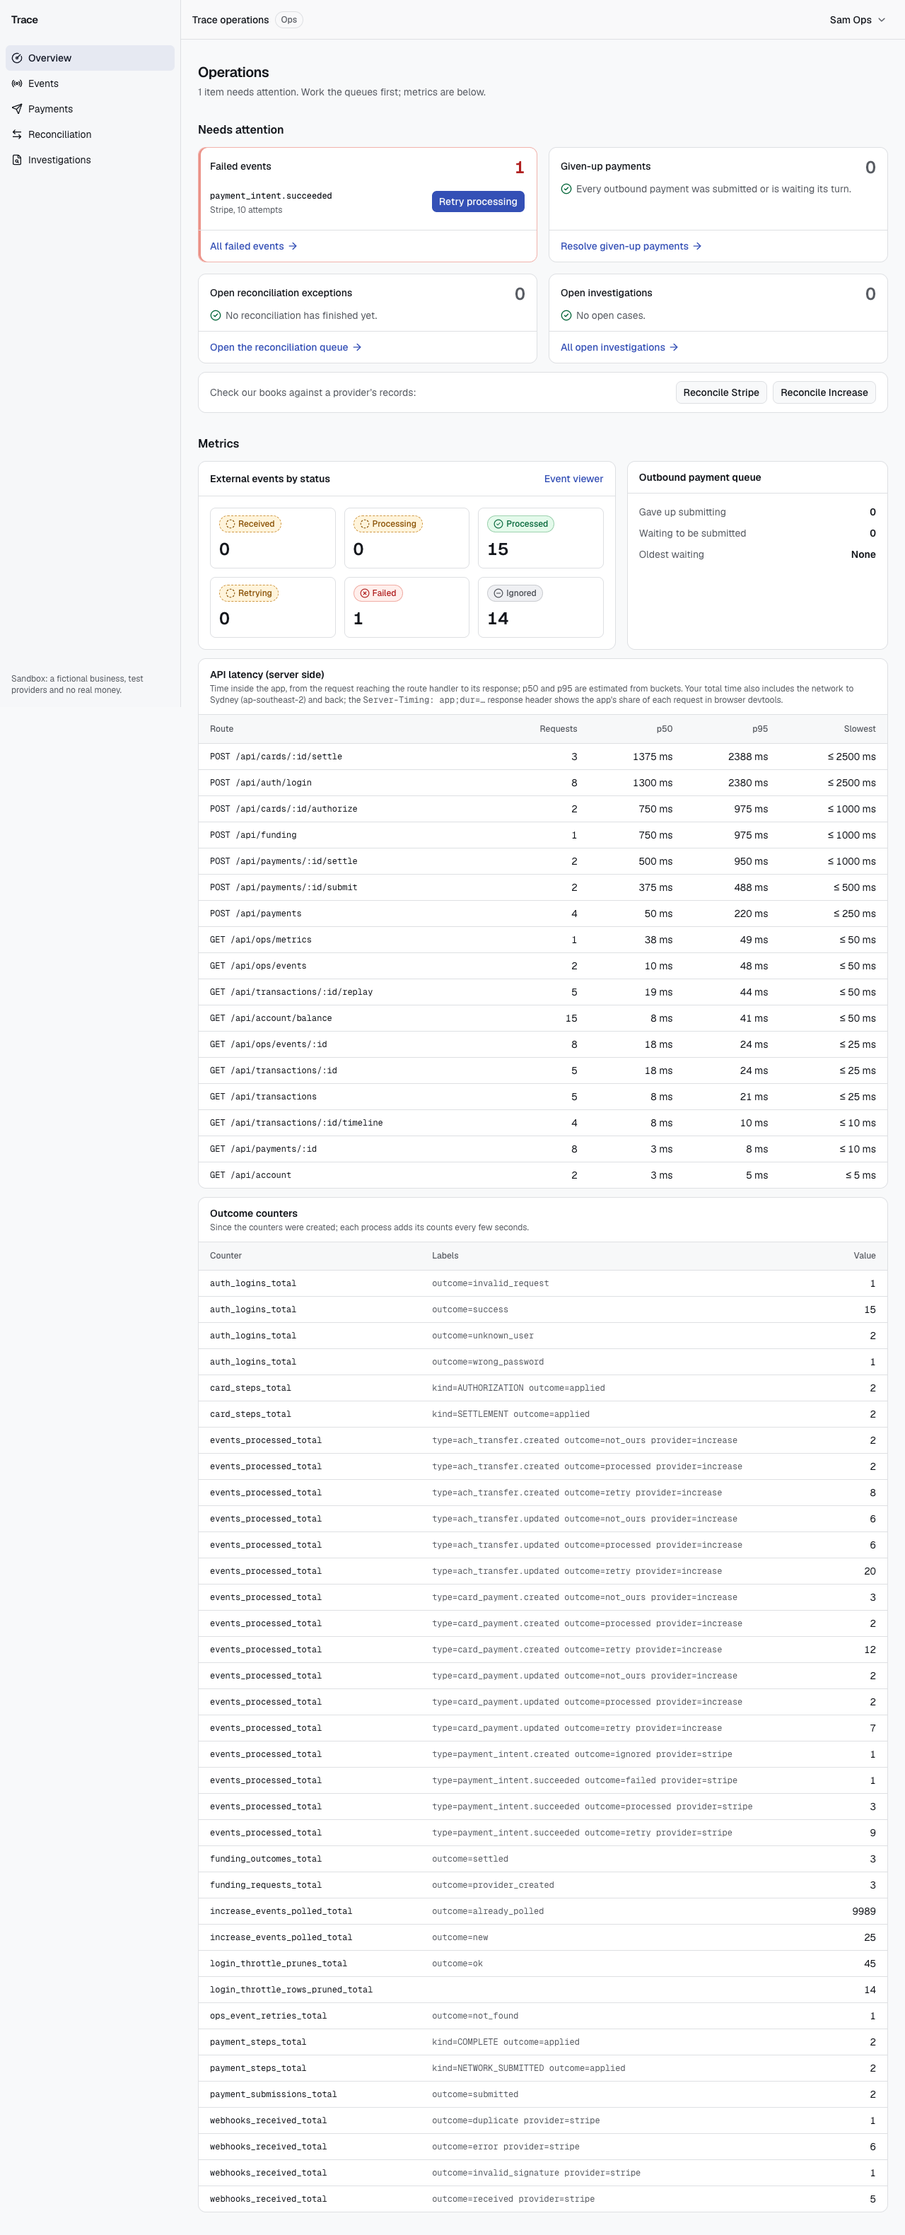
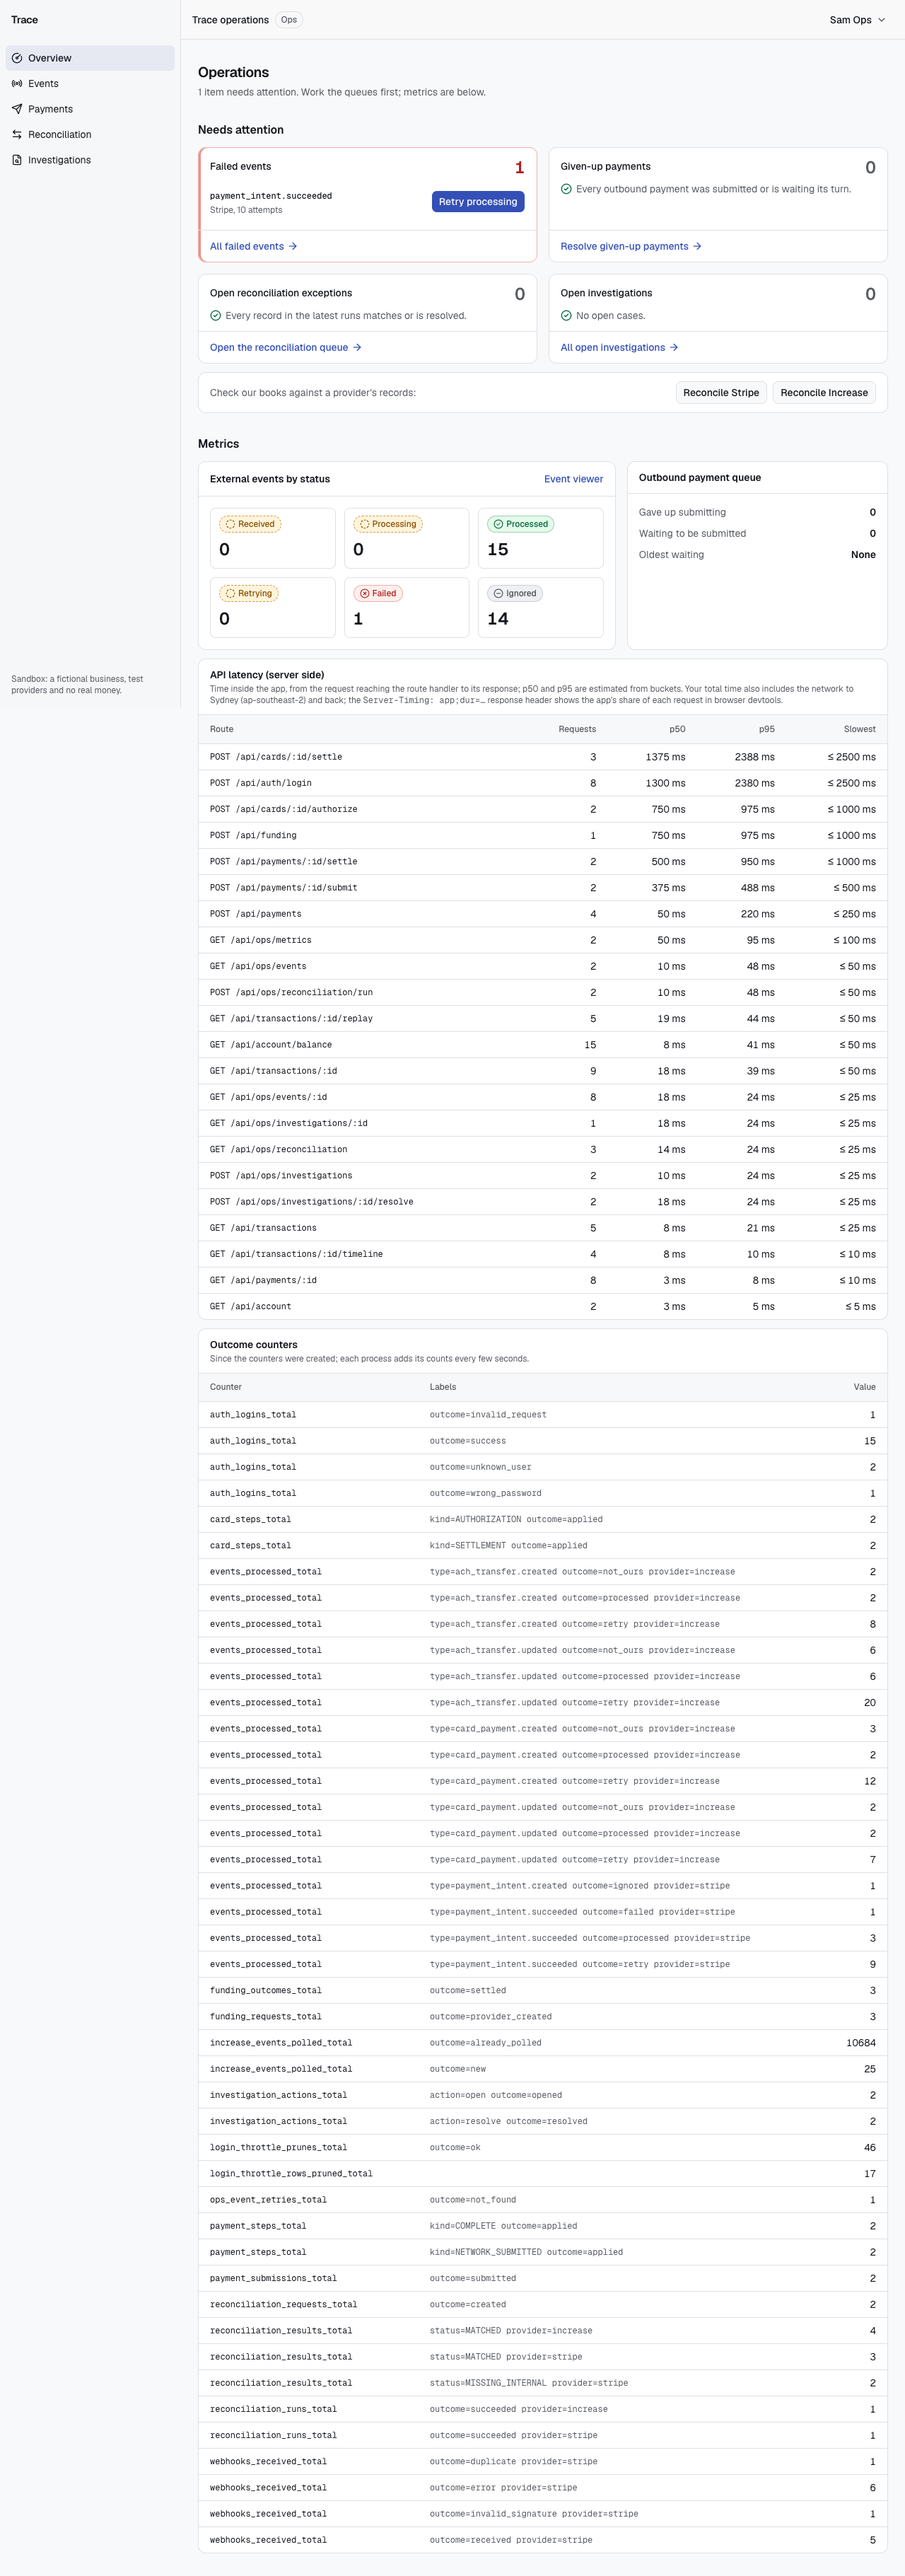
Add reconciliation, counter causes and a same-moment dashboard to the sandbox evidence

diff --git a/docs/sandbox-evidence.md b/docs/sandbox-evidence.md
@@ -54,8 +54,8 @@ the settlement was never taken.
 | Payment created: HOLD_CREATED $100.00 | PENDING | | | 15:35:02.235 |
 | Worker submits with `Idempotency-Key: payment-b9c0b8c6-…` | SUBMITTED | `sandbox_ach_transfer_4wwhv17dt4xgfxqqhkdh` | created 15:35:02, `idempotency_key` = `payment-b9c0b8c6-8ea1-4f5b-b051-c79af7c6eebf` | 15:35:02.641 |
 | `ach_transfer.created` polled | (no change) | `sandbox_event_001m6vac7gzbyg86cnmz2vgyy10` | event created 15:35:02 | received 15:35:06.994 |
-| Simulated submission to FedACH: SUBMITTED_TO_NETWORK | SUBMITTED | `sandbox_event_001m6vacgt38ygpjwvqgkd76nb0` `ach_transfer.updated` | `submission.submitted_at` 15:35:11 | received 15:35:12.712, applied 15:35:14.106 |
-| Simulated settlement: LEDGER_POSTED −$100.00, HOLD_RELEASED, STATUS_CHANGED | COMPLETED | `sandbox_event_001m6vacya4whwbw4hjj0m426kv` `ach_transfer.updated` | `settlement.settled_at` 15:35:25 | received 15:35:28.756, applied 15:35:29.384 |
+| `POST /api/payments/:id/submit` simulates the FedACH submission: SUBMITTED_TO_NETWORK | SUBMITTED | `sandbox_event_001m6vacgt38ygpjwvqgkd76nb0` `ach_transfer.updated` | `submission.submitted_at` 15:35:11 | received 15:35:12.712, applied 15:35:14.106 |
+| `POST /api/payments/:id/settle` simulates settlement: LEDGER_POSTED −$100.00, HOLD_RELEASED, STATUS_CHANGED | COMPLETED | `sandbox_event_001m6vacya4whwbw4hjj0m426kv` `ach_transfer.updated` | `settlement.settled_at` 15:35:25 | received 15:35:28.756, applied 15:35:29.384 |
 | Second update for the same state | (no change) | `sandbox_event_001m6vacyaehqay06vskpmyv8wj` `ach_transfer.updated` | event created 15:35:26 | processed with no new step |
 
 Increase's top-level `status` stays `submitted` after settlement. Settlement is recorded in the
@@ -70,9 +70,9 @@ transfer's `settlement` object, and our COMPLETED status follows from that objec
 ## Replay
 
 `GET /api/transactions/:id/replay` returned `"consistent": true` for all three transactions.
-Replay rebuilds each step from the trace rows and checks the result against the recorded
-balances, the ledger entry and the hold state. The transaction pages show the same result as the
-badge "Replay matches recorded balances".
+Replay rebuilds the transaction from its trace rows and checks every step's ledger and available
+balances, and each posting against its ledger entry. The transaction pages show the same result as
+the badge "Replay matches recorded balances".
 
 | Funding | Card | ACH |
 |---|---|---|
@@ -80,8 +80,8 @@ badge "Replay matches recorded balances".
 
 ## Ops view
 
-Ops event viewer (`/ops/events`): the seven events above, each PROCESSED in one attempt with one
-delivery. Payloads are withheld.
+Ops event viewer (`/ops/events`): each of the seven events of these flows (the top seven rows) was
+PROCESSED in one attempt with one delivery. Payloads are withheld.
 
 ![Ops event viewer](evidence/ops-events.png)
 
@@ -90,23 +90,77 @@ delivery. Payloads are withheld.
   - Stripe's event reached us 1 s after it was created, and Stripe reports `pending_webhooks: 0`.
   - The Increase account has no event subscriptions (`GET /event_subscriptions` returns 0), and
     its events arrived 3 to 4 s after creation, in line with the 5 s poll.
-- **Idempotent dedupe.** Counters since the deploy:
-  - `increase_events_polled_total{outcome="already_polled"}` = 9,769 overlap re-reads, none of
-    which was recorded or applied again. `{outcome="new"}` = 25.
+All counter values below were read from the Ops dashboard at **15:54:33 UTC**, in the same page
+load as the screenshot. They count everything since the deploy, including earlier runs today.
+
+- **Idempotent dedupe:**
+  - `increase_events_polled_total{outcome="already_polled"}` = 10,684. These are overlap
+    re-reads, and none was recorded or applied again. `{outcome="new"}` = 25.
   - `webhooks_received_total{provider="stripe",outcome="duplicate"}` = 1. That duplicate is
     event `evt_trace_selftest_c6f0e8b7b9ed`: 2 deliveries, stored once, IGNORED.
-- **Counters for these flows** (`GET /api/ops/metrics`, including earlier runs today):
+- **Counters for these flows:**
   - `funding_outcomes_total{settled}` 3
   - `card_steps_total{AUTHORIZATION,applied}` 2 and `{SETTLEMENT,applied}` 2
   - `payment_submissions_total{submitted}` 2
   - `payment_steps_total{NETWORK_SUBMITTED,applied}` 2 and `{COMPLETE,applied}` 2
   - Events by status: PROCESSED 15, FAILED 1, IGNORED 14. Payment backlog: 0 pending, 0 given up.
+- **Other counters on the dashboard and their causes** (from the worker and web logs):
+  - `webhooks_received_total{stripe,error}` = 6. These were deliberate bad-signature smoke tests
+    at 07:34 and 07:40 UTC. Before commit `1f9f871`, the production build didn't recognise a
+    signature error (an `instanceof` check across bundles), so it answered 500 instead of 400.
+  - `webhooks_received_total{stripe,invalid_signature}` = 1. The same smoke test, re-run at 07:56
+    UTC after that fix, correctly got a 400.
+  - `events_processed_total{increase,…,retry}` = 47, across the four Increase event types. All
+    happened between 12:41:25 and 12:42:02 UTC, during the rolling deploy of the poller:
+    - The new worker task's poller ingested events while the old task was still claiming them.
+    - The old task's code predates `9ebeb4b` and rejected the anonymous sandbox's `sandbox_` id
+      prefix (`ZodError`), so those events were retried.
+    - The new task then processed them, or marked them not ours.
+  - `events_processed_total{stripe,payment_intent.succeeded,retry}` = 9 and `{failed}` = 1 are
+    the ten attempts of the FAILED event below.
 
 ![Ops dashboard](evidence/ops-dashboard.png)
 
-The one FAILED event on the dashboard, `evt_3UZ8SsGvZ0hDBaj204FVJuYb` from 12:11 UTC, is not part
-of these flows. Its PaymentIntent names a transaction id this database doesn't have
-(`FundingNotFoundError`), so it is surfaced to Ops rather than dropped.
+The one FAILED event, `evt_3UZ8SsGvZ0hDBaj204FVJuYb` from 12:11 UTC, is not part of these flows.
+Its PaymentIntent was created by a local dev run against a local database that shares this Stripe
+test account. Stripe also delivered the event here, and this database has no such transaction
+(`FundingNotFoundError`), so the event ended FAILED and surfaces to Ops. See
+[Reconciliation](#reconciliation).
+
+## Reconciliation
+
+At 15:52 UTC, as Ops, we ran Reconcile Stripe and Reconcile Increase (default window: the last 7
+days). Both runs SUCCEEDED in one attempt. Each compares our books with records fetched from the
+provider's API.
+
+| Provider | Run | Matched | Exceptions |
+|---|---|---|---|
+| Increase | `79b93333-e16b-4237-882a-b236cbc4c2eb` | 4 | 0 |
+| Stripe | `3f7efc3e-c514-405b-a268-5646c3d0a1c7` | 3 (including flow a) | 2 MISSING_INTERNAL |
+
+The two MISSING_INTERNAL records are $500.00 PaymentIntents that Stripe has and this environment
+doesn't:
+- `pi_3UZ3P6GvZ0hDBaj21dLmluTl`, created 06:47 UTC.
+- `pi_3UZ8SsGvZ0hDBaj2014vQKXZ`, created 12:11 UTC.
+
+Both were created by local dev runs:
+- The local runs used the same Stripe test account and the same seeded account id, so their
+  `metadata.account_id` names this account.
+- Their transactions exist only in the local databases.
+
+Reconciliation caught this correctly: Stripe holds money our books never had.
+
+Ops opened an investigation for each record and resolved it with a note and no adjustment, since
+the money never belonged to this environment:
+- `02b4b545-c444-4d63-bf51-c73da1073f98`
+- `cc767778-86bb-4c95-bc82-8e88c3454d1a`
+
+Each record now shows as resolved. The comparison itself was not edited, and the audit trail
+records both the open and the resolve actions.
+
+| Stripe run | Resolved investigation |
+|---|---|
+| ![Stripe reconciliation run](evidence/reconciliation-stripe.png) | ![Resolved investigation](evidence/investigation-resolved.png) |
 
 ## What is mocked or limited
 
@@ -127,8 +181,18 @@ of these flows. Its PaymentIntent names a transaction id this database doesn't h
 - **The app is hosted in Sydney** (AWS ap-southeast-2, behind CloudFront). From the UK, each
   request adds about 270 ms of round trip. The slower simulation routes, around 0.4 to 2.4 s
   server side, are mostly waiting on Increase.
+- **One Stripe test account is shared with local dev.** Local runs use the same seeded ids, so
+  their events reach this deployment, and their PaymentIntents show up in its reconciliation (see
+  above).
 - **Screenshots** were taken in UTC, logged in from saved session cookies, with no password on
   screen.
+
+## What's next
+
+- Separate local dev from the deployed app: a Stripe test account per environment, or an
+  environment tag in the PaymentIntent metadata that the webhook handler and the reconciler
+  check, so another environment's payments end up IGNORED as not ours.
+- Show `event_deliveries.source` (webhook or poll) in the Ops event detail.
 
 ## How to reproduce
 
@@ -141,9 +205,11 @@ curl -s -b jar -H 'content-type: application/json' -d '{"amountCents":8000}' $B/
 curl -s -b jar -H 'content-type: application/json' -d '{"transactionId":"<id>","amountCents":6500}' $B/api/cards/00000000-0000-4000-8000-000000000031/settle
 curl -s -b jar -H 'content-type: application/json' -H "Idempotency-Key: $(uuidgen)" \
   -d '{"recipientName":"Globex Supplies","accountNumber":"987654321","routingNumber":"101050001","amountCents":10000}' $B/api/payments
-curl -s -b jar -X POST $B/api/payments/<payment id>/submit   # once the payment is SUBMITTED
+# submit simulates the FedACH submission; call it once our worker has sent the transfer (status SUBMITTED)
+curl -s -b jar -X POST $B/api/payments/<payment id>/submit
 curl -s -b jar -X POST $B/api/payments/<payment id>/settle
 curl -s -b jar $B/api/transactions/<id>/replay               # "consistent": true
 ```
 
-Then open `/transactions/<id>` as the owner, and `/ops` and `/ops/events` as Ops.
+Then open `/transactions/<id>` as the owner. As Ops, open `/ops` and `/ops/events`, and use
+Reconcile Stripe / Reconcile Increase on `/ops`.
